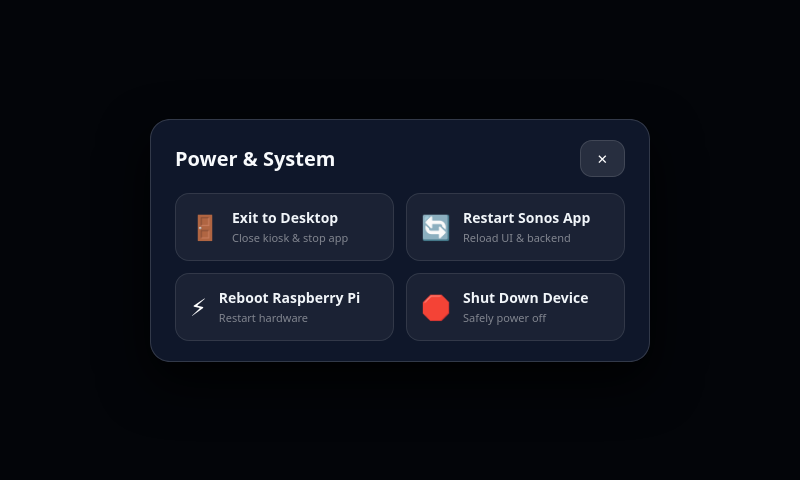
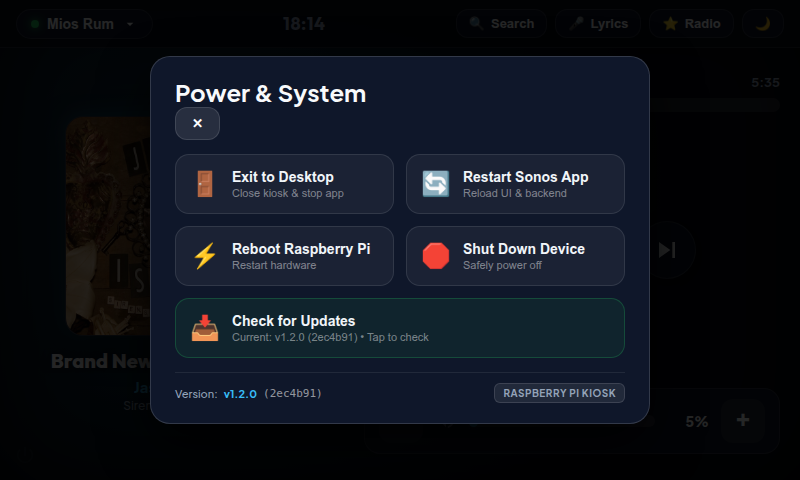
Add versioning display to power & system menu, deployment scripts, and API

diff --git a/static/app.js b/static/app.js
@@ -489,8 +489,13 @@ if (btnUngroupAll) {
 // Hash routing for modal direct view
 function checkModalHash() {
     if (window.location.hash === "#rooms") {
-        roomModal.classList.add("open");
+        roomModal?.classList.add("open");
         loadRoomGroups();
+    } else if (window.location.hash === "#power") {
+        if (powerModal) {
+            updatePowerModalVersionUI();
+            powerModal.classList.add("open");
+        }
     }
 }
 window.addEventListener("hashchange", checkModalHash);
@@ -924,9 +929,45 @@ const btnHiddenPower = document.getElementById("btn-hidden-power");
 const powerModal = document.getElementById("power-modal");
 
 let defaultPowerModalHtml = "";
+let systemVersionData = null;
+
+async function loadSystemVersion() {
+    try {
+        const res = await fetch("/api/version");
+        if (!res.ok) return;
+        systemVersionData = await res.json();
+        updatePowerModalVersionUI();
+    } catch (e) {
+        console.warn("Could not fetch version:", e);
+    }
+}
+
+function updatePowerModalVersionUI() {
+    if (!systemVersionData) return;
+    const verEl = document.getElementById("sys-version-num");
+    const commitEl = document.getElementById("sys-commit-hash");
+    const deployEl = document.getElementById("sys-deploy-badge");
+    const updateSub = document.getElementById("power-card-update-sub");
+
+    if (verEl && systemVersionData.version) {
+        verEl.textContent = `v${systemVersionData.version}`;
+    }
+    if (commitEl) {
+        commitEl.textContent = systemVersionData.commit ? `(${systemVersionData.commit})` : "";
+    }
+    if (deployEl && systemVersionData.deployment) {
+        deployEl.textContent = systemVersionData.deployment.toUpperCase();
+    }
+    if (updateSub && systemVersionData.version) {
+        const commitPart = systemVersionData.commit ? ` (${systemVersionData.commit})` : "";
+        updateSub.textContent = `Current: v${systemVersionData.version}${commitPart} • Tap to check`;
+    }
+}
 
 function bindPowerModalButtons() {
     if (!powerModal) return;
+
+    updatePowerModalVersionUI();
 
     document.getElementById("btn-close-power-modal")?.addEventListener("click", () => {
         powerModal.classList.remove("open");
@@ -959,6 +1000,7 @@ if (powerModal) {
         defaultPowerModalHtml = modalCard.innerHTML;
     }
     bindPowerModalButtons();
+    loadSystemVersion();
 }
 
 if (btnHiddenPower) {
@@ -969,6 +1011,7 @@ if (btnHiddenPower) {
                 modalCard.innerHTML = defaultPowerModalHtml;
                 bindPowerModalButtons();
             }
+            updatePowerModalVersionUI();
             powerModal.classList.add("open");
         }
     });
@@ -1015,7 +1058,7 @@ function triggerTouchscreenUpdate() {
         <div style="text-align:center; padding:28px 14px;">
             <div id="update-modal-icon" style="font-size:42px; margin-bottom:12px;">📥</div>
             <h2 id="update-modal-title" style="font-size:20px; font-weight:800; color:#fff;">Updating Sonos Touchscreen...</h2>
-            <p id="update-modal-sub" style="color:rgba(255,255,255,0.7); margin-top:8px; font-size:13px; line-height:1.4;">Connecting to remote Git repository...</p>
+            <p id="update-modal-sub" style="color:rgba(255,255,255,0.7); margin-top:8px; font-size:13px; line-height:1.4;">${systemVersionData ? `Current: v${systemVersionData.version} (${systemVersionData.commit || 'release'})` : 'Connecting to remote Git repository...'}</p>
             <div id="update-modal-progress" style="margin-top:16px; font-size:13px; color:var(--accent); font-family:monospace; min-height:20px;">Checking network & remote...</div>
             <div style="margin-top:22px;">
                 <button id="btn-close-update-modal" style="padding:10px 24px; border-radius:12px; background:rgba(255,255,255,0.15); border:1px solid rgba(255,255,255,0.25); color:#fff; font-size:13px; font-weight:700; cursor:pointer;">✕ Dismiss</button>

diff --git a/static/style.css b/static/style.css
@@ -1233,6 +1233,46 @@ body.touch-screen {
     margin-top: 2px;
 }
 
+.power-modal-footer {
+    display: flex;
+    justify-content: space-between;
+    align-items: center;
+    margin-top: 14px;
+    padding-top: 10px;
+    border-top: 1px solid rgba(255, 255, 255, 0.08);
+    font-size: 11px;
+    color: var(--text-muted);
+}
+
+.power-version-badge {
+    display: inline-flex;
+    align-items: center;
+    gap: 6px;
+}
+
+.power-version-num {
+    color: var(--accent);
+    font-weight: 700;
+}
+
+.power-commit-hash {
+    font-family: monospace;
+    opacity: 0.8;
+    color: rgba(255, 255, 255, 0.7);
+}
+
+.power-deploy-badge {
+    background: rgba(255, 255, 255, 0.08);
+    border: 1px solid rgba(255, 255, 255, 0.12);
+    padding: 3px 8px;
+    border-radius: 6px;
+    font-size: 10px;
+    letter-spacing: 0.5px;
+    text-transform: uppercase;
+    font-weight: 700;
+    color: #94a3b8;
+}
+
 /* ========================================================
    SEARCH DRAWER & VIRTUAL KEYBOARD (800x480 TOUCH FIT)
    ======================================================== */

diff --git a/static/index.html b/static/index.html
@@ -367,9 +367,17 @@
                         <span class="power-card-icon">📥</span>
                         <div class="power-card-info">
                             <span class="power-card-title">Check for Updates</span>
-                            <span class="power-card-sub">Pull latest git updates & reload</span>
+                            <span class="power-card-sub" id="power-card-update-sub">Pull latest git updates & reload</span>
                         </div>
                     </button>
+                </div>
+                <div class="power-modal-footer">
+                    <div class="power-version-badge">
+                        <span>Version:</span>
+                        <span class="power-version-num" id="sys-version-num">v1.2.0</span>
+                        <span class="power-commit-hash" id="sys-commit-hash"></span>
+                    </div>
+                    <div class="power-deploy-badge" id="sys-deploy-badge">RPI KIOSK</div>
                 </div>
             </div>
         </div>

diff --git a/server.py b/server.py
@@ -28,6 +28,44 @@ def get_local_ip():
     except Exception:
         return '127.0.0.1'
 
+def get_version_info():
+    base_dir = os.path.dirname(os.path.abspath(__file__))
+    install_dir = os.path.expanduser("~/.local/share/sonos-touchscreen")
+    v_data = {
+        "version": "1.2.0",
+        "name": "Sonos Touchscreen Controller",
+        "deployment": "Raspberry Pi Kiosk",
+        "target": "Raspberry Pi 7\" Touchscreen (800x480)",
+        "commit": "",
+        "branch": "main"
+    }
+    for d in [base_dir, install_dir]:
+        v_file = os.path.join(d, "version.json")
+        if os.path.exists(v_file):
+            try:
+                with open(v_file, "r") as f:
+                    v_data.update(json.load(f))
+                    break
+            except Exception:
+                pass
+
+    for d in [base_dir, install_dir]:
+        if os.path.exists(os.path.join(d, ".git")):
+            try:
+                import subprocess
+                cmd = ["git", "-C", d, "rev-parse", "--short", "HEAD"]
+                commit = subprocess.check_output(cmd, stderr=subprocess.DEVNULL).decode().strip()
+                if commit:
+                    v_data["commit"] = commit
+                b_cmd = ["git", "-C", d, "rev-parse", "--abbrev-ref", "HEAD"]
+                branch = subprocess.check_output(b_cmd, stderr=subprocess.DEVNULL).decode().strip()
+                if branch and branch != "HEAD":
+                    v_data["branch"] = branch
+                break
+            except Exception:
+                pass
+    return v_data
+
 LOCAL_IP = get_local_ip()
 
 class TouchscreenHandler(SimpleHTTPRequestHandler):
@@ -51,8 +89,12 @@ class TouchscreenHandler(SimpleHTTPRequestHandler):
             elif path == "/app.js":
                 self.serve_file(os.path.join(STATIC_DIR, "app.js"), "application/javascript; charset=utf-8")
                 return
+            elif path == "/api/version":
+                self.send_json(get_version_info())
+                return
             elif path in ("/api/status", "/api/state"):
                 st = self.server.controller.get_state()
+                st["version"] = get_version_info().get("version", "1.2.0")
                 self.send_json(st)
                 return
             elif path == "/api/speakers":

diff --git a/README.md b/README.md
@@ -80,6 +80,7 @@ Designed to live on your kitchen counter, living room wall, or bedside table as 
     - **Reboot Raspberry Pi**: Safely reboot the hardware.
     - **Shut Down Device**: Safely power off the Raspberry Pi.
     - **Check for Updates**: Pull latest commits from GitHub and restart the controller with 1 tap right from the screen.
+    - **Live Version & Deployment Badge**: Displays running release version (e.g. `v1.2.0`), git commit hash, and target deployment (`RPI KIOSK`) directly in the modal footer.
 
 - **100% Native ARM64 & ARMhf**:
   - Built with pure Python standard library and lightweight web standards.
@@ -127,6 +128,12 @@ git pull
 bash install.sh
 ```
 *(Running `bash install.sh` refreshes all application files and restarts the `sonos-touchscreen` user service).*
+
+> [!TIP]
+> If `git pull` reports local changes (e.g. `error: Your local changes to install.sh would be overwritten by merge`), cleanly reset and install with:
+> ```bash
+> git reset --hard origin/main && bash install.sh
+> ```
 
 ---
 
